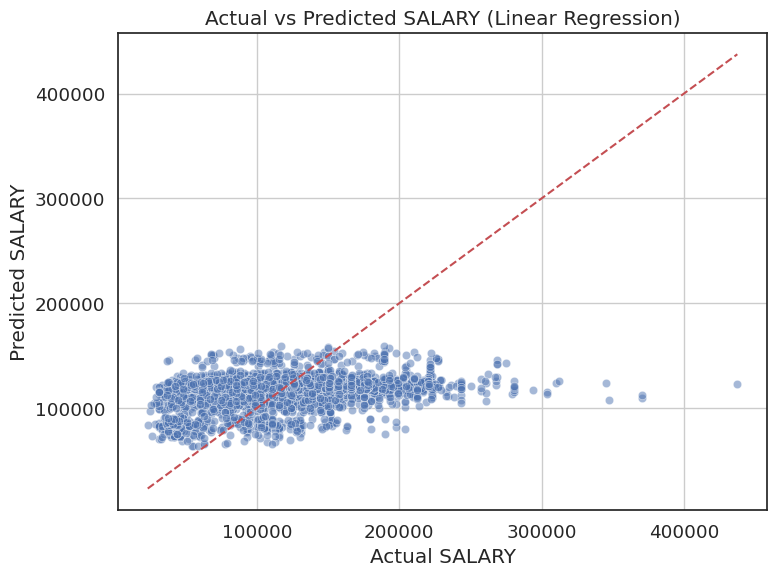
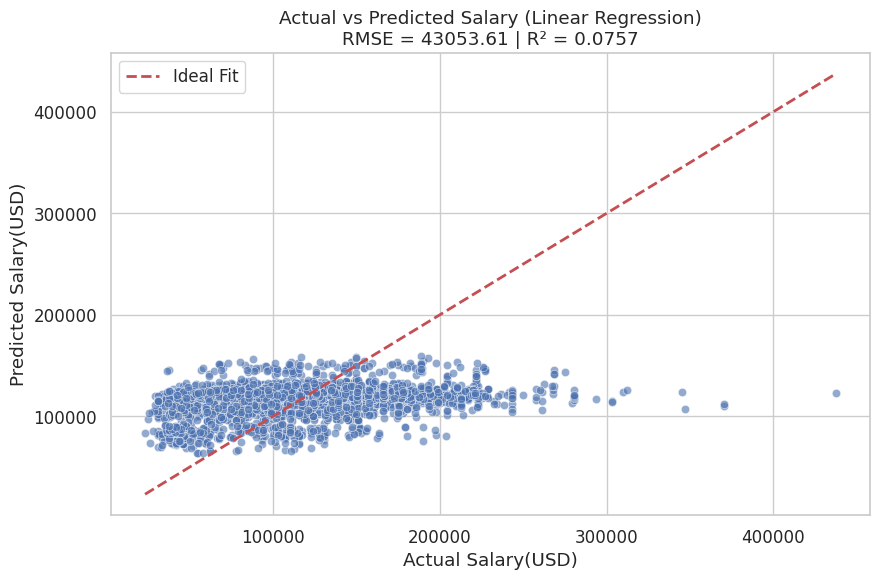
Built site for gh-pages

diff --git a/test.html b/test.html
@@ -659,7 +659,7 @@ ARI: -0.0170</code></pre>
 </div>
 </div>
 </div>
-<div id="1daf1c40" class="cell" data-execution_count="129">
+<div id="1daf1c40" class="cell" data-execution_count="92">
 <div class="sourceCode cell-code" id="cb45"><pre class="sourceCode python code-with-copy"><code class="sourceCode python"><span id="cb45-1"><a href="#cb45-1" aria-hidden="true" tabindex="-1"></a><span class="co"># ===== 多元线性回归（标准化版本）=====</span></span>
 <span id="cb45-2"><a href="#cb45-2" aria-hidden="true" tabindex="-1"></a><span class="im">from</span> pyspark.ml.feature <span class="im">import</span> VectorAssembler, StandardScaler, StringIndexer, OneHotEncoder</span>
 <span id="cb45-3"><a href="#cb45-3" aria-hidden="true" tabindex="-1"></a><span class="im">from</span> pyspark.ml.regression <span class="im">import</span> LinearRegression</span>
@@ -703,41 +703,33 @@ ARI: -0.0170</code></pre>
 <span id="cb45-41"><a href="#cb45-41" aria-hidden="true" tabindex="-1"></a></span>
 <span id="cb45-42"><a href="#cb45-42" aria-hidden="true" tabindex="-1"></a><span class="co"># 评估</span></span>
 <span id="cb45-43"><a href="#cb45-43" aria-hidden="true" tabindex="-1"></a>evaluator_r2 <span class="op">=</span> RegressionEvaluator(labelCol<span class="op">=</span><span class="st">"SALARY"</span>, predictionCol<span class="op">=</span><span class="st">"prediction"</span>, metricName<span class="op">=</span><span class="st">"r2"</span>)</span>
-<span id="cb45-44"><a href="#cb45-44" aria-hidden="true" tabindex="-1"></a>evaluator_rmse <span class="op">=</span> RegressionEvaluator(labelCol<span class="op">=</span><span class="st">"SALARY"</span>, predictionCol<span class="op">=</span><span class="st">"prediction"</span>, metricName<span class="op">=</span><span class="st">"rmse"</span>)</span>
-<span id="cb45-45"><a href="#cb45-45" aria-hidden="true" tabindex="-1"></a></span>
-<span id="cb45-46"><a href="#cb45-46" aria-hidden="true" tabindex="-1"></a>r2 <span class="op">=</span> evaluator_r2.evaluate(predictions)</span>
-<span id="cb45-47"><a href="#cb45-47" aria-hidden="true" tabindex="-1"></a>rmse <span class="op">=</span> evaluator_rmse.evaluate(predictions)</span>
-<span id="cb45-48"><a href="#cb45-48" aria-hidden="true" tabindex="-1"></a></span>
-<span id="cb45-49"><a href="#cb45-49" aria-hidden="true" tabindex="-1"></a><span class="bu">print</span>(<span class="ss">f"R²: </span><span class="sc">{</span>r2<span class="sc">:.4f}</span><span class="ss">"</span>)</span>
-<span id="cb45-50"><a href="#cb45-50" aria-hidden="true" tabindex="-1"></a><span class="bu">print</span>(<span class="ss">f"RMSE: </span><span class="sc">{</span>rmse<span class="sc">:.2f}</span><span class="ss">"</span>)</span></code><button title="Copy to Clipboard" class="code-copy-button"><i class="bi"></i></button></pre></div>
+<span id="cb45-44"><a href="#cb45-44" aria-hidden="true" tabindex="-1"></a>evaluator_rmse <span class="op">=</span> RegressionEvaluator(labelCol<span class="op">=</span><span class="st">"SALARY"</span>, predictionCol<span class="op">=</span><span class="st">"prediction"</span>, metricName<span class="op">=</span><span class="st">"rmse"</span>)</span></code><button title="Copy to Clipboard" class="code-copy-button"><i class="bi"></i></button></pre></div>
 <div class="cell-output cell-output-stderr">
-<pre><code>25/04/20 13:16:11 WARN Instrumentation: [2c769b72] regParam is zero, which might cause numerical instability and overfitting.
-25/04/20 13:16:14 WARN Instrumentation: [2c769b72] Cholesky solver failed due to singular covariance matrix. Retrying with Quasi-Newton solver.
-[Stage 6367:&gt;                                                       (0 + 1) / 1]</code></pre>
-</div>
-<div class="cell-output cell-output-stdout">
-<pre><code>R²: 0.0757
-RMSE: 43053.61</code></pre>
-</div>
-<div class="cell-output cell-output-stderr">
-<pre><code>                                                                                </code></pre>
+<pre><code>25/04/20 01:25:07 WARN Instrumentation: [80d53520] regParam is zero, which might cause numerical instability and overfitting.
+25/04/20 01:25:09 WARN Instrumentation: [80d53520] Cholesky solver failed due to singular covariance matrix. Retrying with Quasi-Newton solver.
+                                                                                </code></pre>
 </div>
 </div>
-<div id="ccc3b1f2" class="cell" data-execution_count="131">
-<div class="sourceCode cell-code" id="cb49"><pre class="sourceCode python code-with-copy"><code class="sourceCode python"><span id="cb49-1"><a href="#cb49-1" aria-hidden="true" tabindex="-1"></a>pdf <span class="op">=</span> predictions.select(<span class="st">"SALARY"</span>, <span class="st">"prediction"</span>).toPandas()</span>
-<span id="cb49-2"><a href="#cb49-2" aria-hidden="true" tabindex="-1"></a></span>
-<span id="cb49-3"><a href="#cb49-3" aria-hidden="true" tabindex="-1"></a><span class="im">import</span> matplotlib.pyplot <span class="im">as</span> plt</span>
-<span id="cb49-4"><a href="#cb49-4" aria-hidden="true" tabindex="-1"></a><span class="im">import</span> seaborn <span class="im">as</span> sns</span>
-<span id="cb49-5"><a href="#cb49-5" aria-hidden="true" tabindex="-1"></a></span>
-<span id="cb49-6"><a href="#cb49-6" aria-hidden="true" tabindex="-1"></a>plt.figure(figsize<span class="op">=</span>(<span class="dv">8</span>, <span class="dv">6</span>))</span>
-<span id="cb49-7"><a href="#cb49-7" aria-hidden="true" tabindex="-1"></a>sns.scatterplot(x<span class="op">=</span><span class="st">"SALARY"</span>, y<span class="op">=</span><span class="st">"prediction"</span>, data<span class="op">=</span>pdf, alpha<span class="op">=</span><span class="fl">0.5</span>)</span>
-<span id="cb49-8"><a href="#cb49-8" aria-hidden="true" tabindex="-1"></a>plt.plot([pdf.SALARY.<span class="bu">min</span>(), pdf.SALARY.<span class="bu">max</span>()], [pdf.SALARY.<span class="bu">min</span>(), pdf.SALARY.<span class="bu">max</span>()], <span class="st">'r--'</span>)  <span class="co"># 对角线</span></span>
-<span id="cb49-9"><a href="#cb49-9" aria-hidden="true" tabindex="-1"></a>plt.xlabel(<span class="st">"Actual SALARY"</span>)</span>
-<span id="cb49-10"><a href="#cb49-10" aria-hidden="true" tabindex="-1"></a>plt.ylabel(<span class="st">"Predicted SALARY"</span>)</span>
-<span id="cb49-11"><a href="#cb49-11" aria-hidden="true" tabindex="-1"></a>plt.title(<span class="st">"Actual vs Predicted SALARY (Linear Regression)"</span>)</span>
-<span id="cb49-12"><a href="#cb49-12" aria-hidden="true" tabindex="-1"></a>plt.grid(<span class="va">True</span>)</span>
-<span id="cb49-13"><a href="#cb49-13" aria-hidden="true" tabindex="-1"></a>plt.tight_layout()</span>
-<span id="cb49-14"><a href="#cb49-14" aria-hidden="true" tabindex="-1"></a>plt.show()</span></code><button title="Copy to Clipboard" class="code-copy-button"><i class="bi"></i></button></pre></div>
+<div id="ccc3b1f2" class="cell" data-execution_count="91">
+<div class="sourceCode cell-code" id="cb47"><pre class="sourceCode python code-with-copy"><code class="sourceCode python"><span id="cb47-1"><a href="#cb47-1" aria-hidden="true" tabindex="-1"></a>pdf <span class="op">=</span> predictions.select(<span class="st">"SALARY"</span>, <span class="st">"prediction"</span>).toPandas()</span>
+<span id="cb47-2"><a href="#cb47-2" aria-hidden="true" tabindex="-1"></a></span>
+<span id="cb47-3"><a href="#cb47-3" aria-hidden="true" tabindex="-1"></a>r2 <span class="op">=</span> evaluator_r2.evaluate(predictions)</span>
+<span id="cb47-4"><a href="#cb47-4" aria-hidden="true" tabindex="-1"></a>rmse <span class="op">=</span> evaluator_rmse.evaluate(predictions)</span>
+<span id="cb47-5"><a href="#cb47-5" aria-hidden="true" tabindex="-1"></a></span>
+<span id="cb47-6"><a href="#cb47-6" aria-hidden="true" tabindex="-1"></a><span class="im">import</span> matplotlib.pyplot <span class="im">as</span> plt</span>
+<span id="cb47-7"><a href="#cb47-7" aria-hidden="true" tabindex="-1"></a><span class="im">import</span> seaborn <span class="im">as</span> sns</span>
+<span id="cb47-8"><a href="#cb47-8" aria-hidden="true" tabindex="-1"></a></span>
+<span id="cb47-9"><a href="#cb47-9" aria-hidden="true" tabindex="-1"></a>plt.figure(figsize<span class="op">=</span>(<span class="dv">9</span>, <span class="dv">6</span>))</span>
+<span id="cb47-10"><a href="#cb47-10" aria-hidden="true" tabindex="-1"></a>sns.scatterplot(x<span class="op">=</span><span class="st">"SALARY"</span>, y<span class="op">=</span><span class="st">"prediction"</span>, data<span class="op">=</span>pdf, alpha<span class="op">=</span><span class="fl">0.6</span>)</span>
+<span id="cb47-11"><a href="#cb47-11" aria-hidden="true" tabindex="-1"></a>plt.plot([pdf.SALARY.<span class="bu">min</span>(), pdf.SALARY.<span class="bu">max</span>()], [pdf.SALARY.<span class="bu">min</span>(), pdf.SALARY.<span class="bu">max</span>()], <span class="st">'r--'</span>, linewidth<span class="op">=</span><span class="dv">2</span>, label<span class="op">=</span><span class="st">'Ideal Fit'</span>)  <span class="co"># 对角线</span></span>
+<span id="cb47-12"><a href="#cb47-12" aria-hidden="true" tabindex="-1"></a>plt.xlabel(<span class="st">"Actual Salary(USD)"</span>)</span>
+<span id="cb47-13"><a href="#cb47-13" aria-hidden="true" tabindex="-1"></a>plt.ylabel(<span class="st">"Predicted Salary(USD)"</span>)</span>
+<span id="cb47-14"><a href="#cb47-14" aria-hidden="true" tabindex="-1"></a>plt.title(<span class="ss">f"Actual vs Predicted Salary (Linear Regression)</span><span class="ch">\n</span><span class="ss">RMSE = </span><span class="sc">{</span>rmse<span class="sc">:.2f}</span><span class="ss"> | R² = </span><span class="sc">{</span>r2<span class="sc">:.4f}</span><span class="ss">"</span>)</span>
+<span id="cb47-15"><a href="#cb47-15" aria-hidden="true" tabindex="-1"></a>plt.grid(<span class="va">True</span>)</span>
+<span id="cb47-16"><a href="#cb47-16" aria-hidden="true" tabindex="-1"></a>plt.legend()</span>
+<span id="cb47-17"><a href="#cb47-17" aria-hidden="true" tabindex="-1"></a>plt.tight_layout()</span>
+<span id="cb47-18"><a href="#cb47-18" aria-hidden="true" tabindex="-1"></a>plt.savefig(<span class="st">"images/predicted_vs_actual.png"</span>, dpi<span class="op">=</span><span class="dv">300</span>)</span>
+<span id="cb47-19"><a href="#cb47-19" aria-hidden="true" tabindex="-1"></a>plt.show()</span></code><button title="Copy to Clipboard" class="code-copy-button"><i class="bi"></i></button></pre></div>
 <div class="cell-output cell-output-stderr">
 <pre><code>                                                                                </code></pre>
 </div>

diff --git a/skill_gap_analysis.html b/skill_gap_analysis.html
@@ -209,7 +209,7 @@ pre > code.sourceCode > span > a:first-child::before { text-decoration: underlin
 </header>
 
 
-<div id="f78244c7" class="cell" data-execution_count="1">
+<div id="9a2b56da" class="cell" data-execution_count="1">
 <details class="code-fold">
 <summary>Code</summary>
 <div class="sourceCode cell-code" id="cb1"><pre class="sourceCode python code-with-copy"><code class="sourceCode python"><span id="cb1-1"><a href="#cb1-1" aria-hidden="true" tabindex="-1"></a><span class="im">import</span> pandas <span class="im">as</span> pd</span>
@@ -231,7 +231,7 @@ pre > code.sourceCode > span > a:first-child::before { text-decoration: underlin
 <section id="creating-a-team-based-skills-data-framework" class="level2" data-number="1">
 <h2 data-number="1" class="anchored" data-anchor-id="creating-a-team-based-skills-data-framework"><span class="header-section-number">1</span> Creating a team-based skills data framework</h2>
 <p>We take a column of software skill names from the cleaned dataset, splits each entry, cleans up the text, and counts how often each skill appears. Then, we grabs the top 30 most frequent skills, and puts them into a tidy table using pandas to make it easier to view.</p>
-<div id="fc82d14e" class="cell" data-execution_count="2">
+<div id="a4ec14a5" class="cell" data-execution_count="2">
 <details class="code-fold">
 <summary>Code</summary>
 <div class="sourceCode cell-code" id="cb2"><pre class="sourceCode python code-with-copy"><code class="sourceCode python"><span id="cb2-1"><a href="#cb2-1" aria-hidden="true" tabindex="-1"></a><span class="im">from</span> collections <span class="im">import</span> Counter</span>
@@ -258,7 +258,7 @@ pre > code.sourceCode > span > a:first-child::before { text-decoration: underlin
 </details>
 </div>
 <p>We build a table showing the skill levels of our team members across various tools like SQL, Excel, Python, and others. Then we create a heatmap to visually highlight each person’s strengths and weaknesses, making it easy to compare skill levels across the team.</p>
-<div id="54c6f123" class="cell" data-execution_count="3">
+<div id="59f12558" class="cell" data-execution_count="3">
 <details class="code-fold">
 <summary>Code</summary>
 <div class="sourceCode cell-code" id="cb3"><pre class="sourceCode python code-with-copy"><code class="sourceCode python"><span id="cb3-1"><a href="#cb3-1" aria-hidden="true" tabindex="-1"></a><span class="im">import</span> pandas <span class="im">as</span> pd</span>
@@ -304,7 +304,7 @@ pre > code.sourceCode > span > a:first-child::before { text-decoration: underlin
 <section id="compare-team-skills-to-industry-requirements" class="level2" data-number="2">
 <h2 data-number="2" class="anchored" data-anchor-id="compare-team-skills-to-industry-requirements"><span class="header-section-number">2</span> Compare team skills to industry requirements</h2>
 <p>We add a new column EDU_MATCH to the dataset to check if each person’s actual education level matches the minimum education requirement. If they match, it labels the row as “Match”; otherwise, it marks it as “Mismatch.” This makes it easy to see who meets the education criteria and who doesn’t.</p>
-<div id="fd20c77b" class="cell" data-execution_count="4">
+<div id="7f90b880" class="cell" data-execution_count="4">
 <details class="code-fold">
 <summary>Code</summary>
 <div class="sourceCode cell-code" id="cb4"><pre class="sourceCode python code-with-copy"><code class="sourceCode python"><span id="cb4-1"><a href="#cb4-1" aria-hidden="true" tabindex="-1"></a><span class="im">from</span> pyspark.sql.functions <span class="im">import</span> col, when</span>
@@ -325,7 +325,7 @@ pre > code.sourceCode > span > a:first-child::before { text-decoration: underlin
 </details>
 </div>
 <p>Then we create a reference table that links each unique minimum education level required for a job to a corresponding score. It assigns higher scores to higher education levels, for example, a Ph.D.&nbsp;gets a 5, a Master’s a 4, and so on, down to 0 for jobs that list no education requirement. And we think this scoring helps quantify and compare job expectations based on the level of education required.</p>
-<div id="8edab91f" class="cell" data-execution_count="5">
+<div id="fae0cb63" class="cell" data-execution_count="5">
 <details class="code-fold">
 <summary>Code</summary>
 <div class="sourceCode cell-code" id="cb5"><pre class="sourceCode python code-with-copy"><code class="sourceCode python"><span id="cb5-1"><a href="#cb5-1" aria-hidden="true" tabindex="-1"></a><span class="im">from</span> pyspark.sql.functions <span class="im">import</span> when, lit, col, trim</span>
@@ -355,7 +355,7 @@ pre > code.sourceCode > span > a:first-child::before { text-decoration: underlin
 </figure>
 </div>
 <p>We analyze how often each software skill appears in job listings, categorized by the required education level (which we previously converted into scores). First, we join the education score to each job, split the combined skill strings into individual skills, and count how frequently each skill appears at each education score level. Second, we reshape the data so that each skill shows the number of times it appears across all score levels. Finally, we identify the most common score for each skill. If multiple scores tie for the highest count, we will select the lowest one among them—resulting in a “Proficiency_Levels” value that reflects the typical education requirement associated with that skill in the job market.</p>
-<div id="438394bf" class="cell" data-execution_count="6">
+<div id="34f58fed" class="cell" data-execution_count="6">
 <details class="code-fold">
 <summary>Code</summary>
 <div class="sourceCode cell-code" id="cb6"><pre class="sourceCode python code-with-copy"><code class="sourceCode python"><span id="cb6-1"><a href="#cb6-1" aria-hidden="true" tabindex="-1"></a><span class="im">from</span> pyspark.sql.functions <span class="im">import</span> count, array, struct, sort_array, expr, size, element_at, col, lit, greatest, when</span>
@@ -401,7 +401,7 @@ pre > code.sourceCode > span > a:first-child::before { text-decoration: underlin
 </details>
 </div>
 <p>Here we focus on a specific set of software skills that are relevant to our analysis. First, we define a list of target skills we’re interested in, such as SQL, Excel, Python, Tableau, and others. Then, we filter our previously processed skill data to only include these selected skills, keeping just the skill names and their associated “Proficiency_Levels”. Finally, we sort the result alphabetically by skill name to make it easier to review and compare.</p>
-<div id="dd646eef" class="cell" data-execution_count="7">
+<div id="31a532a4" class="cell" data-execution_count="7">
 <details class="code-fold">
 <summary>Code</summary>
 <div class="sourceCode cell-code" id="cb7"><pre class="sourceCode python code-with-copy"><code class="sourceCode python"><span id="cb7-1"><a href="#cb7-1" aria-hidden="true" tabindex="-1"></a><span class="im">from</span> pyspark.sql.functions <span class="im">import</span> lit</span>
@@ -430,7 +430,7 @@ pre > code.sourceCode > span > a:first-child::before { text-decoration: underlin
 </figure>
 </div>
 <p>Now we are able to evaluate how well our team’s skill levels match up with job market expectations. First, we collect the proficiency scores for a set of target skills from our previous results. Then, we rename the skill labels into a more readable and consistent format for easier comparison. Next, we calculate the skill gap for each team member by subtracting the job-required score from their actual skill level. Here, positive values mean the team exceeds the requirement, while negative values show areas for improvement. Finally, we visualize these gaps using a heatmap, making it easy to spot which skills are strong and which need development across the team.</p>
-<div id="e2a3843b" class="cell" data-execution_count="8">
+<div id="3bdcd8b3" class="cell" data-execution_count="8">
 <details class="code-fold">
 <summary>Code</summary>
 <div class="sourceCode cell-code" id="cb8"><pre class="sourceCode python code-with-copy"><code class="sourceCode python"><span id="cb8-1"><a href="#cb8-1" aria-hidden="true" tabindex="-1"></a><span class="im">import</span> pandas <span class="im">as</span> pd</span>

diff --git a/data_cleaning.html b/data_cleaning.html
@@ -222,7 +222,7 @@ pre > code.sourceCode > span > a:first-child::before { text-decoration: underlin
 
 <section id="load-the-dataset" class="level1">
 <h1>Load the dataset</h1>
-<div id="5cc881f9" class="cell" data-execution_count="1">
+<div id="f2281c61" class="cell" data-execution_count="1">
 <details class="code-fold">
 <summary>Code</summary>
 <div class="sourceCode cell-code" id="cb1"><pre class="sourceCode python code-with-copy"><code class="sourceCode python"><span id="cb1-1"><a href="#cb1-1" aria-hidden="true" tabindex="-1"></a><span class="im">import</span> pandas <span class="im">as</span> pd</span>
@@ -243,7 +243,7 @@ pre > code.sourceCode > span > a:first-child::before { text-decoration: underlin
 <section id="update-duration" class="level2">
 <h2 class="anchored" data-anchor-id="update-duration">1. Update Duration</h2>
 <p>Calculates the duration of each job posting by finding the difference between its expiration and posted dates. Converts the POSTED and EXPIRED columns from string to date format. Update DURATION if it is null with the number of days between EXPIRED and POSTED, otherwise, the existing value is kept.</p>
-<div id="87fdf304" class="cell" data-execution_count="2">
+<div id="c39ab2d5" class="cell" data-execution_count="2">
 <details class="code-fold">
 <summary>Code</summary>
 <div class="sourceCode cell-code" id="cb2"><pre class="sourceCode python code-with-copy"><code class="sourceCode python"><span id="cb2-1"><a href="#cb2-1" aria-hidden="true" tabindex="-1"></a><span class="co"># 1.DURATION = EXPIRED - POSTED</span></span>
@@ -266,7 +266,7 @@ pre > code.sourceCode > span > a:first-child::before { text-decoration: underlin
 <section id="clean-the-columns" class="level2">
 <h2 class="anchored" data-anchor-id="clean-the-columns">2. Clean the columns</h2>
 <p>Cleans up multiple text columns in the DataFrame by extracting and formatting the content originally enclosed in double quotes. Columns to clean contain those string values often wrapped in brackets, double quotes, or cluttered with newlines and extra spaces. For each of these columns, using regular expressions to remove square brackets, line breaks, and excess whitespace, formats comma-separated items with a proper space after each comma, and removes all double quotes, resulting in cleaner, more readable text entries across the specified columns.</p>
-<div id="d586d4f3" class="cell" data-execution_count="3">
+<div id="18b4a371" class="cell" data-execution_count="3">
 <details class="code-fold">
 <summary>Code</summary>
 <div class="sourceCode cell-code" id="cb3"><pre class="sourceCode python code-with-copy"><code class="sourceCode python"><span id="cb3-1"><a href="#cb3-1" aria-hidden="true" tabindex="-1"></a><span class="co"># 2. Remove square brackets, line breaks, spaces, and replace the formatting between commas with “,”, then remove the double quotes</span></span>
@@ -288,7 +288,7 @@ pre > code.sourceCode > span > a:first-child::before { text-decoration: underlin
 <section id="clean-the-education-level-column" class="level2">
 <h2 class="anchored" data-anchor-id="clean-the-education-level-column">3. Clean the education level column</h2>
 <p>Cleans the EDUCATION_LEVELS column by extracting and retaining only the numeric portion of each entry. Removing surrounding text or symbols, leaving just the numeric education level in the column. This makes the data more consistent and easier to work with for analysis or modeling purposes.</p>
-<div id="bf1ae82a" class="cell" data-execution_count="4">
+<div id="fd31fefc" class="cell" data-execution_count="4">
 <details class="code-fold">
 <summary>Code</summary>
 <div class="sourceCode cell-code" id="cb4"><pre class="sourceCode python code-with-copy"><code class="sourceCode python"><span id="cb4-1"><a href="#cb4-1" aria-hidden="true" tabindex="-1"></a><span class="co"># 3.EDUCATION_LEVELS only keeps digits</span></span>
@@ -301,7 +301,7 @@ pre > code.sourceCode > span > a:first-child::before { text-decoration: underlin
 <section id="clean-the-location-column" class="level2">
 <h2 class="anchored" data-anchor-id="clean-the-location-column">4. Clean the location column</h2>
 <p>Cleans the LOCATION column, ensures that all location information appears on one line, and removes curly braces, resulting a cleaner, more uniform LOCATION column for reading and analyzing</p>
-<div id="9f163d6c" class="cell" data-execution_count="5">
+<div id="54a24ec5" class="cell" data-execution_count="5">
 <details class="code-fold">
 <summary>Code</summary>
 <div class="sourceCode cell-code" id="cb5"><pre class="sourceCode python code-with-copy"><code class="sourceCode python"><span id="cb5-1"><a href="#cb5-1" aria-hidden="true" tabindex="-1"></a><span class="co"># 4. LOCATION only keeps data</span></span>
@@ -315,7 +315,7 @@ pre > code.sourceCode > span > a:first-child::before { text-decoration: underlin
 <section id="update-modeled-duration" class="level2">
 <h2 class="anchored" data-anchor-id="update-modeled-duration">5. Update Modeled Duration</h2>
 <p>Similarly as in updating duration, fills in the value with the number of days between MODELED_EXPIRED and POSTED, helps standardize and complete the duration data for modeled job postings</p>
-<div id="11268c6b" class="cell" data-execution_count="6">
+<div id="88470845" class="cell" data-execution_count="6">
 <details class="code-fold">
 <summary>Code</summary>
 <div class="sourceCode cell-code" id="cb6"><pre class="sourceCode python code-with-copy"><code class="sourceCode python"><span id="cb6-1"><a href="#cb6-1" aria-hidden="true" tabindex="-1"></a><span class="co"># 5.MODELED_DURATION = MODELED_EXPIRED - POSTED</span></span>
@@ -337,7 +337,7 @@ pre > code.sourceCode > span > a:first-child::before { text-decoration: underlin
 <section id="standardize-remote-work-types" class="level2">
 <h2 class="anchored" data-anchor-id="standardize-remote-work-types">6. Standardize Remote Work Types</h2>
 <p>Standardizes the values in the REMOTE_TYPE_NAME column to ensure consistency in describing remote work types. Replaces values None and Not Remote with On-Site, changes Hybrid Remote to Hybrid, and keeps Remote as is. Simplify and unify the classification of job postings based on work location</p>
-<div id="dcdd7934" class="cell" data-execution_count="7">
+<div id="36c65d88" class="cell" data-execution_count="7">
 <details class="code-fold">
 <summary>Code</summary>
 <div class="sourceCode cell-code" id="cb7"><pre class="sourceCode python code-with-copy"><code class="sourceCode python"><span id="cb7-1"><a href="#cb7-1" aria-hidden="true" tabindex="-1"></a><span class="co"># 6. Standardize Remote Work Types</span></span>
@@ -363,7 +363,7 @@ pre > code.sourceCode > span > a:first-child::before { text-decoration: underlin
 </section>
 <section id="save-the-cleaned-data" class="level2">
 <h2 class="anchored" data-anchor-id="save-the-cleaned-data">9. Save the cleaned data</h2>
-<div id="5d52cd95" class="cell" data-execution_count="8">
+<div id="3604c8ee" class="cell" data-execution_count="8">
 <details class="code-fold">
 <summary>Code</summary>
 <div class="sourceCode cell-code" id="cb8"><pre class="sourceCode python code-with-copy"><code class="sourceCode python"><span id="cb8-1"><a href="#cb8-1" aria-hidden="true" tabindex="-1"></a><span class="co"># save data</span></span>

diff --git a/eda.html b/eda.html
@@ -226,7 +226,7 @@ pre > code.sourceCode > span > a:first-child::before { text-decoration: underlin
 </header>
 
 
-<div id="3c2f3408" class="cell" data-execution_count="1">
+<div id="9a1fd5bd" class="cell" data-execution_count="1">
 <details class="code-fold">
 <summary>Code</summary>
 <div class="sourceCode cell-code" id="cb1"><pre class="sourceCode python code-with-copy"><code class="sourceCode python"><span id="cb1-1"><a href="#cb1-1" aria-hidden="true" tabindex="-1"></a><span class="im">import</span> pandas <span class="im">as</span> pd</span>
@@ -249,7 +249,7 @@ pre > code.sourceCode > span > a:first-child::before { text-decoration: underlin
 <h1>Exploratory Data Analysis (EDA)</h1>
 <section id="comparison-of-salary-between-remote-and-on-site-work-box-chart" class="level2">
 <h2 class="anchored" data-anchor-id="comparison-of-salary-between-remote-and-on-site-work-box-chart">1. Comparison of salary between remote and on-site work (box chart)</h2>
-<div id="a953d312" class="cell" data-execution_count="2">
+<div id="32451e1c" class="cell" data-execution_count="2">
 <details class="code-fold">
 <summary>Code</summary>
 <div class="sourceCode cell-code" id="cb2"><pre class="sourceCode python code-with-copy"><code class="sourceCode python"><span id="cb2-1"><a href="#cb2-1" aria-hidden="true" tabindex="-1"></a><span class="im">import</span> pandas <span class="im">as</span> pd</span>
@@ -287,7 +287,7 @@ pre > code.sourceCode > span > a:first-child::before { text-decoration: underlin
 </section>
 <section id="salary-by-region-map" class="level2">
 <h2 class="anchored" data-anchor-id="salary-by-region-map">2. Salary by region (map)</h2>
-<div id="1a9caa00" class="cell" data-execution_count="3">
+<div id="5394e286" class="cell" data-execution_count="3">
 <details class="code-fold">
 <summary>Code</summary>
 <div class="sourceCode cell-code" id="cb3"><pre class="sourceCode python code-with-copy"><code class="sourceCode python"><span id="cb3-1"><a href="#cb3-1" aria-hidden="true" tabindex="-1"></a><span class="co"># STATE_NAME change to .abbr</span></span>
@@ -339,7 +339,7 @@ pre > code.sourceCode > span > a:first-child::before { text-decoration: underlin
 </section>
 <section id="the-highest-paying-job" class="level2">
 <h2 class="anchored" data-anchor-id="the-highest-paying-job">3. The highest paying job</h2>
-<div id="a21bd603" class="cell" data-execution_count="4">
+<div id="7a4581b1" class="cell" data-execution_count="4">
 <details class="code-fold">
 <summary>Code</summary>
 <div class="sourceCode cell-code" id="cb4"><pre class="sourceCode python code-with-copy"><code class="sourceCode python"><span id="cb4-1"><a href="#cb4-1" aria-hidden="true" tabindex="-1"></a><span class="co"># Collecting data with .collect()</span></span>
@@ -374,7 +374,7 @@ pre > code.sourceCode > span > a:first-child::before { text-decoration: underlin
 </section>
 <section id="salary-comparison-between-ai-and-non-ai-positions" class="level2">
 <h2 class="anchored" data-anchor-id="salary-comparison-between-ai-and-non-ai-positions">4. Salary comparison between AI and non-AI positions</h2>
-<div id="70bf48a0" class="cell" data-execution_count="5">
+<div id="0b414508" class="cell" data-execution_count="5">
 <details class="code-fold">
 <summary>Code</summary>
 <div class="sourceCode cell-code" id="cb5"><pre class="sourceCode python code-with-copy"><code class="sourceCode python"><span id="cb5-1"><a href="#cb5-1" aria-hidden="true" tabindex="-1"></a><span class="im">import</span> plotly.express <span class="im">as</span> px</span>

diff --git a/ml_methods.html b/ml_methods.html
@@ -202,7 +202,7 @@ pre > code.sourceCode > span > a:first-child::before { text-decoration: underlin
 </header>
 
 
-<div id="f5d2db6d" class="cell" data-execution_count="1">
+<div id="e7498026" class="cell" data-execution_count="1">
 <details class="code-fold">
 <summary>Code</summary>
 <div class="sourceCode cell-code" id="cb1"><pre class="sourceCode python code-with-copy"><code class="sourceCode python"><span id="cb1-1"><a href="#cb1-1" aria-hidden="true" tabindex="-1"></a><span class="im">import</span> pandas <span class="im">as</span> pd</span>

diff --git a/nlp_methods.html b/nlp_methods.html
@@ -202,7 +202,7 @@ pre > code.sourceCode > span > a:first-child::before { text-decoration: underlin
 </header>
 
 
-<div id="e704be0a" class="cell" data-execution_count="1">
+<div id="0a4b04e4" class="cell" data-execution_count="1">
 <details class="code-fold">
 <summary>Code</summary>
 <div class="sourceCode cell-code" id="cb1"><pre class="sourceCode python code-with-copy"><code class="sourceCode python"><span id="cb1-1"><a href="#cb1-1" aria-hidden="true" tabindex="-1"></a><span class="im">import</span> pandas <span class="im">as</span> pd</span>
